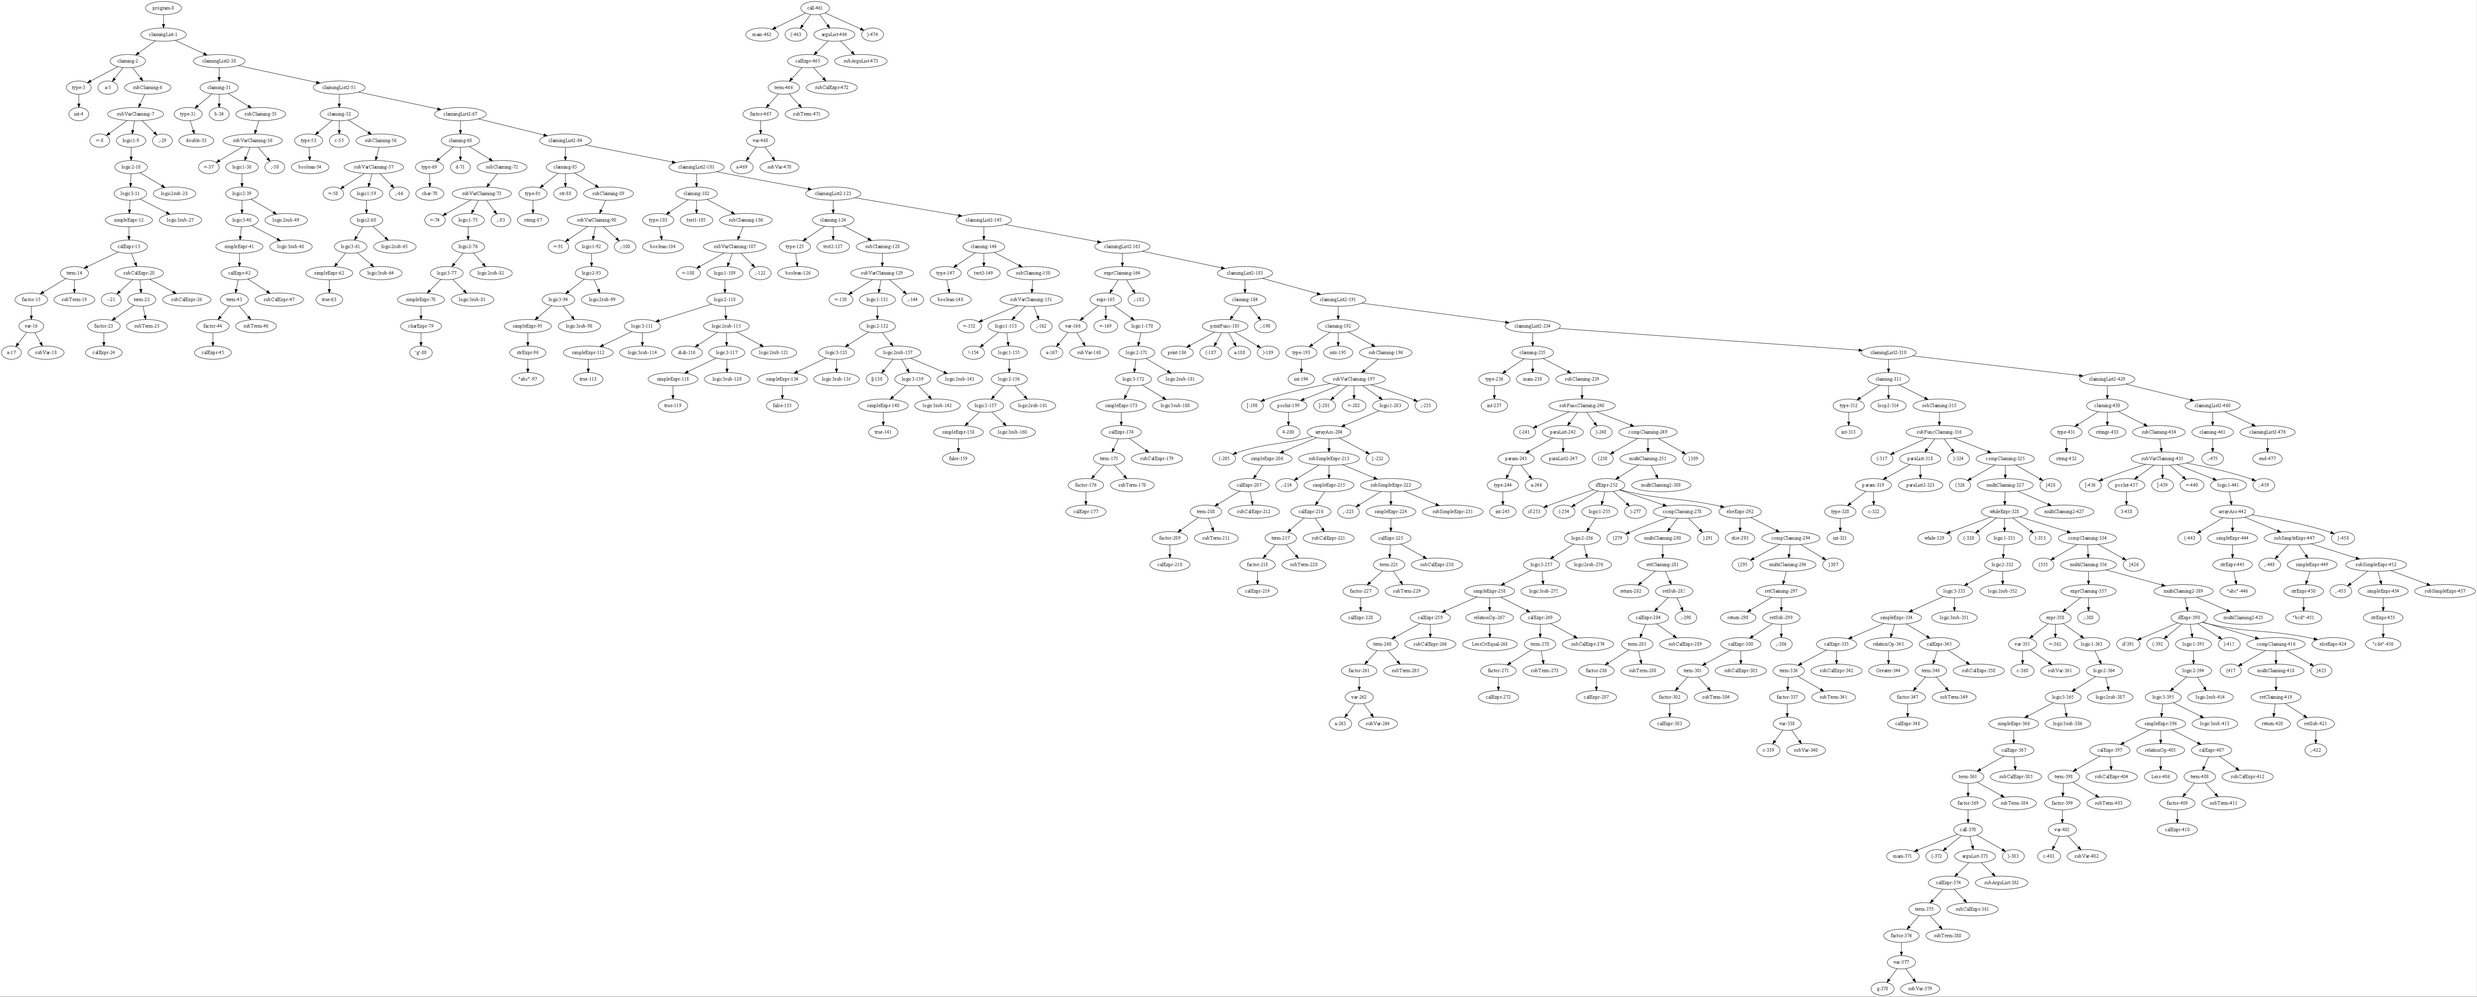
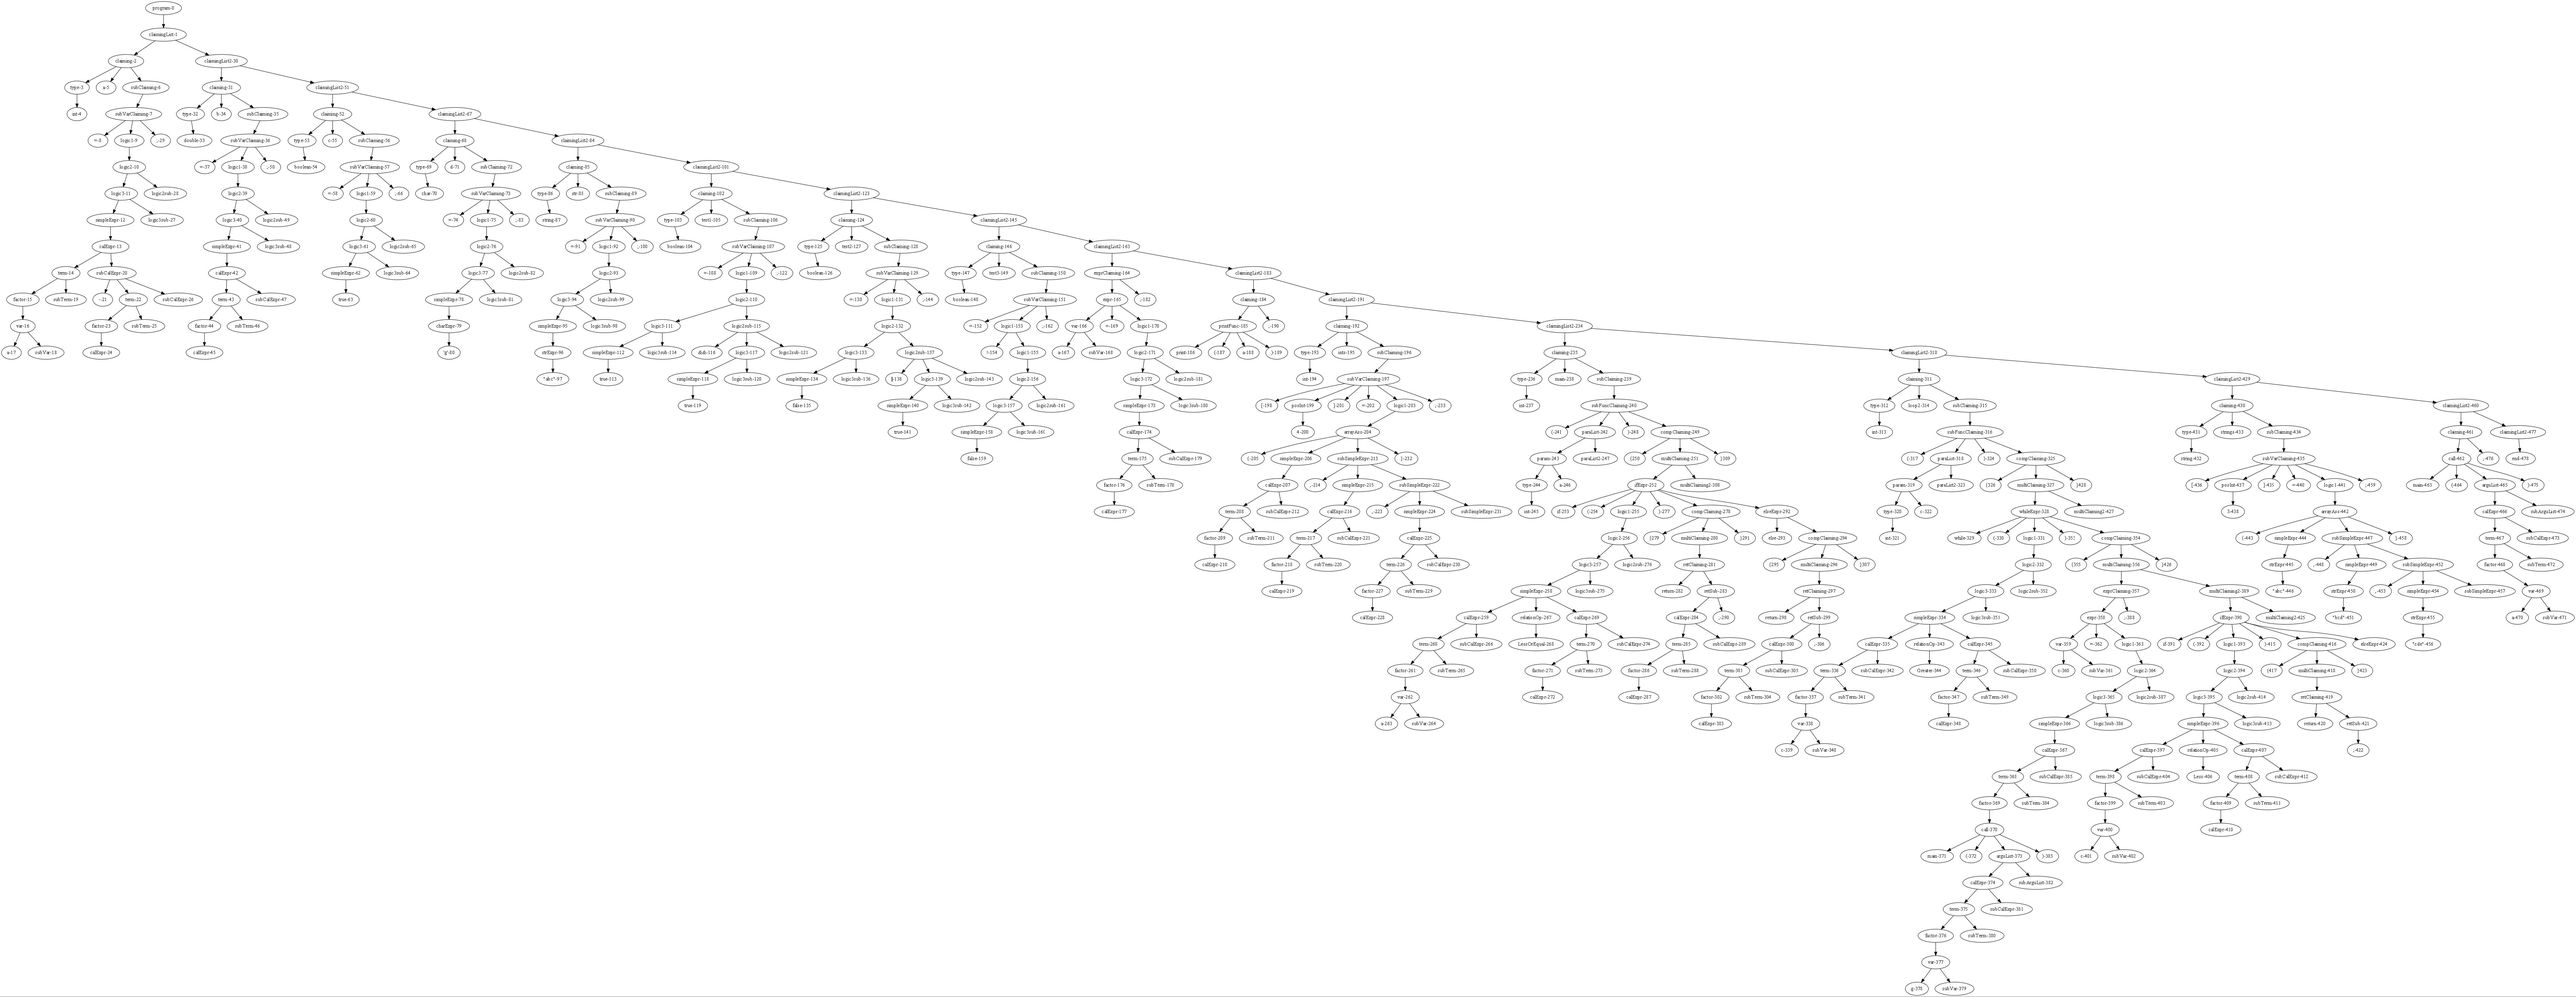
提交更改

diff --git a/Mini/src/Parser/ParserRun.java b/Mini/src/Parser/ParserRun.java
@@ -1,6 +1,7 @@
 package Parser;
 import java.util.ArrayList;
 import java.io.File;
+import java.io.FileWriter;
 import java.util.*;
 import Lexer.*;
 public class ParserRun {
@@ -10,6 +11,8 @@ public class ParserRun {
 	//code for AST generation
 	static int nodeNum = 0;
 	static String dotFormat = "";
+	static int tokenSize = 0;
+	static ArrayList<Exception> excepList = new ArrayList<>();
 	public static void createDotGraph(String dotFormat,String fileName)
 	{
 	    GraphViz gv=new GraphViz();
@@ -21,6 +24,16 @@ public class ParserRun {
 	    gv.decreaseDpi();
 	    File out = new File(fileName+"."+ type); 
 	    gv.writeGraphToFile( gv.getGraph( gv.getDotSource(), type ), out );
+	}
+	
+	//find the index of next comma
+	public static void gotoNextSemi() {
+		int type = -100;
+		while(type!=22&&currPos<tokenSize-1) {
+			currPos++;
+			type = tokens.get(currPos).getCode();
+		}
+		currPos++;
 	}
 	
 	//iterative subPrograms
@@ -35,6 +48,7 @@ public class ParserRun {
 		EOF.setCode(-8);
 		EOF.setLine(line);
 		tokens.add(EOF);
+		tokenSize = tokens.size();
 		try {
 			program();
 		} catch (Exception e) {
@@ -91,6 +105,12 @@ public class ParserRun {
 			System.out.println("*********************************************");
 			System.out.println("Below is the AST");
 			//dotFormat = dotFormat.substring(0,dotFormat.indexOf(";", 200)+1);
+			//将树保存起来，作为语义分析的输入
+			FileWriter writer = new FileWriter("tree.txt");
+			writer.write(dotFormat);
+			writer.flush();
+			writer.close();	
+			//画树
 			createDotGraph(dotFormat, "DotGraph");
 		}
 		else if(isType()) {
@@ -150,6 +170,7 @@ public class ParserRun {
 //			}
 //		}
 		else if(isIdentifier()) {
+			dotFormat+="<claiming-"+curNodeNum+">-><call-"+getNext()+">;";
 			call();
 			if(tokens.get(currPos).getCode()==22) {
 				dotFormat+="<claiming-"+curNodeNum+">-><"+tokens.get(currPos).getContent()+"-"+getNext()+">;";
@@ -820,7 +841,7 @@ public class ParserRun {
 		}
 		else {
 			throw new Exception("Line:"+tokens.get(currPos).getLine()
-					+ " Syntax Error: Invalid expression!") ;
+					+ " Syntax Error: Missing \";\"!") ;
 		}
 	}
 	//30 

diff --git a/Mini/src/Parser/TestGraph.java b/Mini/src/Parser/TestGraph.java
@@ -1,0 +1,23 @@
+package Parser;
+
+import java.io.File;
+
+public class TestGraph {
+	
+	public static void main(String[] args) {
+		String content = "A->B;B->C;B->D";
+		createDotGraph(content, "test");
+	}
+	public static void createDotGraph(String dotFormat,String fileName)
+	{
+	    GraphViz gv=new GraphViz();
+	    gv.addln(gv.start_graph());
+	    gv.add(dotFormat);
+	    gv.addln(gv.end_graph());
+	    String type = "jpg";  //输出图文件的格式，以.jpg为例
+	    gv.decreaseDpi();
+	    gv.decreaseDpi();
+	    File out = new File(fileName+"."+ type); 
+	    gv.writeGraphToFile( gv.getGraph( gv.getDotSource(), type ), out );
+	}
+}

diff --git a/Calculator/src/Node.java b/Calculator/src/Node.java
@@ -1,5 +1,3 @@
-package test;
-
 public class Node {
 	String expr;
 	double value;	
